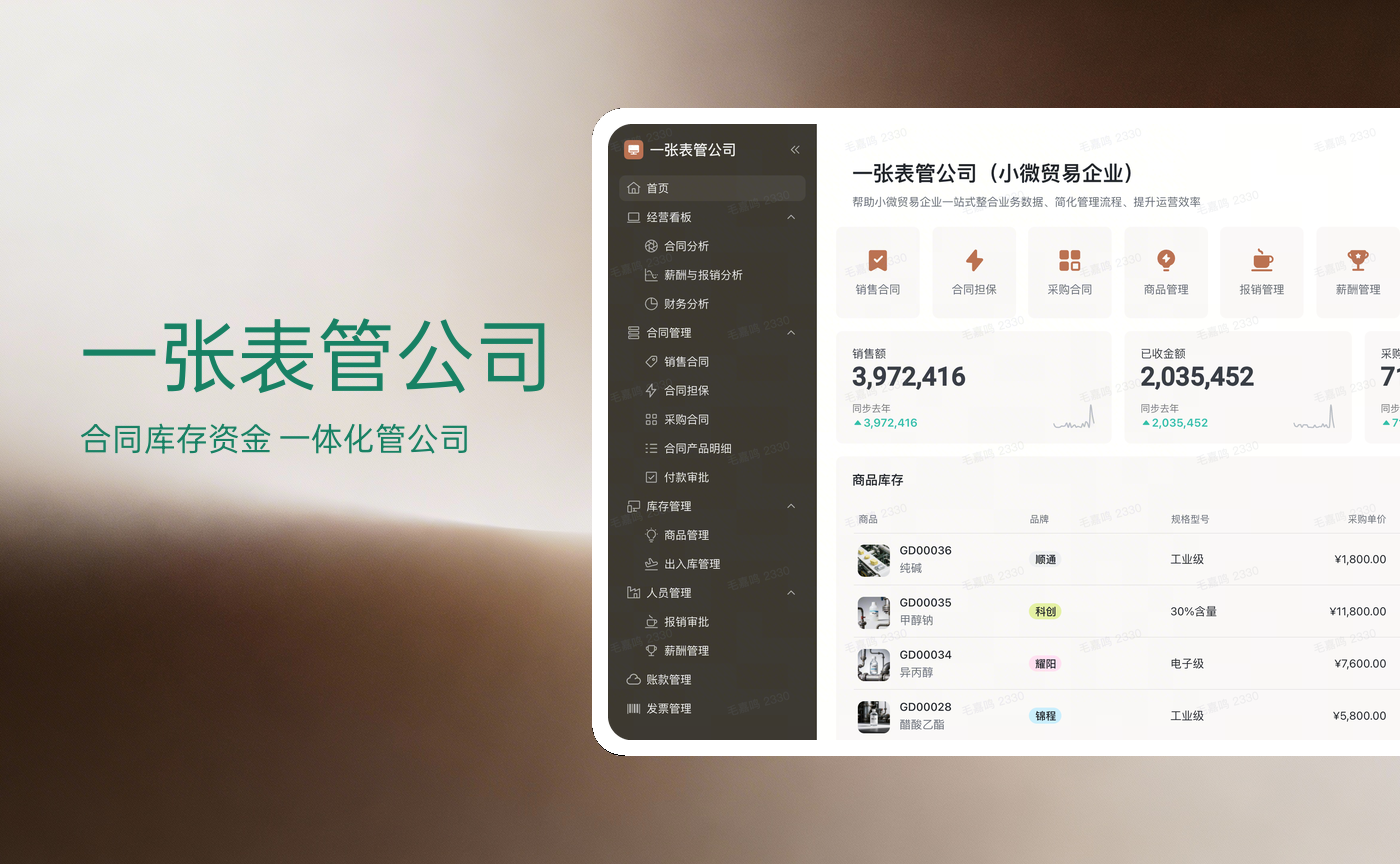
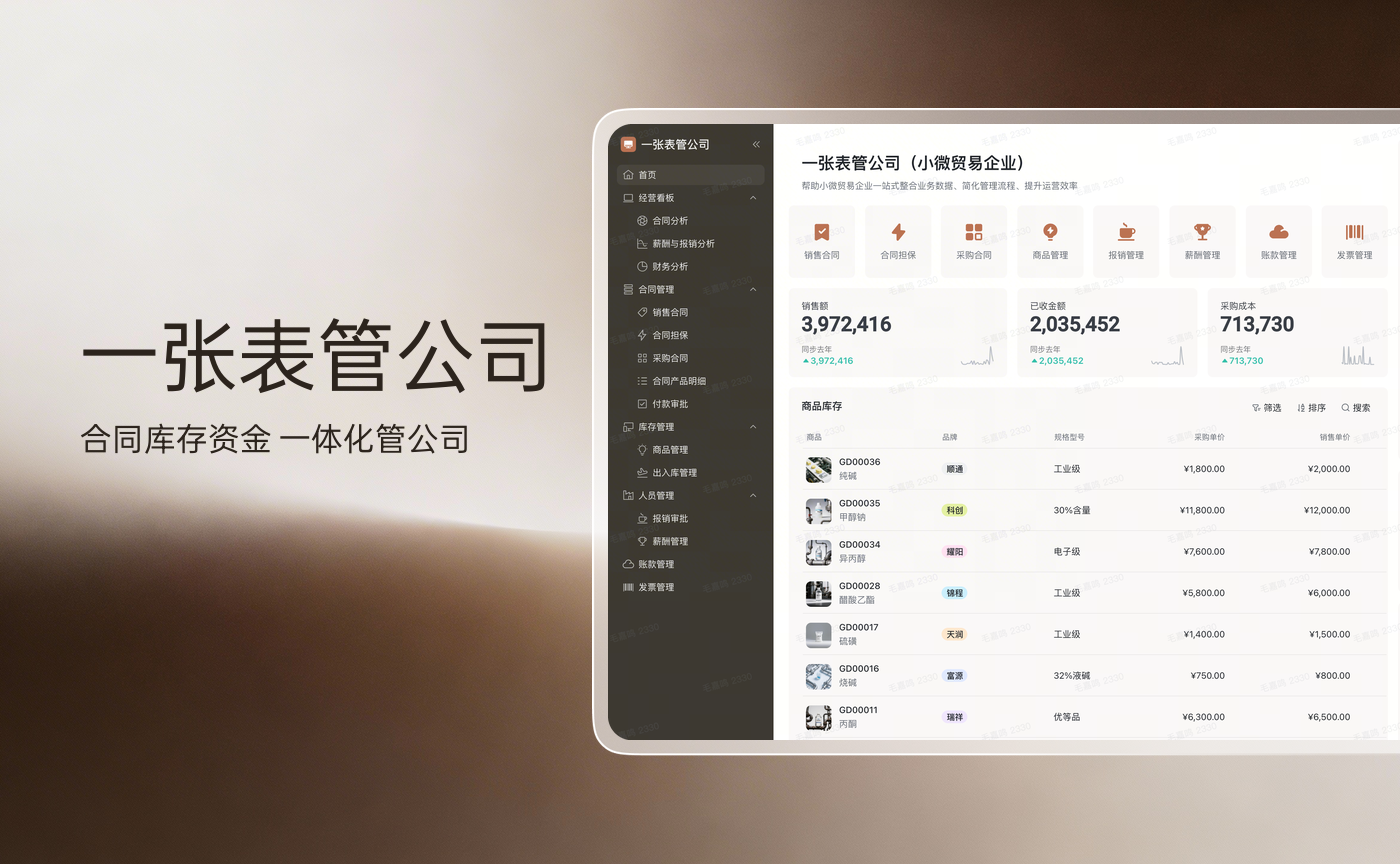
Update

diff --git a/app/main.py b/app/main.py
@@ -639,6 +639,7 @@ class CoverApp(tk.Tk):
         for child in self.form_dynamic.winfo_children():
             child.destroy()
         self.text_vars = {}
+        self.text_color_vars = {}
         self.slot_vars = {}
 
         template = self._get_template(self.template_var.get())
@@ -650,9 +651,13 @@ class CoverApp(tk.Tk):
             for i, t in enumerate(template.texts):
                 key = t.key
                 var = tk.StringVar()
+                color_var = tk.StringVar()
                 self.text_vars[key] = var
+                self.text_color_vars[key] = color_var
                 ttk.Label(text_frame, text=f"{key}  (text.{key})").grid(row=i, column=0, sticky="w", pady=2)
                 ttk.Entry(text_frame, textvariable=var).grid(row=i, column=1, sticky="ew", pady=2)
+                ttk.Label(text_frame, text="color").grid(row=i, column=2, sticky="w", padx=(8, 2), pady=2)
+                ttk.Entry(text_frame, textvariable=color_var, width=10).grid(row=i, column=3, sticky="w", pady=2)
 
         if template.slots:
             slot_frame = ttk.Labelframe(self.form_dynamic, text="Slots", padding=8)
@@ -841,12 +846,14 @@ class CoverApp(tk.Tk):
 
     def _build_render_input(self) -> RenderInput:
         texts = {k: v.get() for k, v in (self.text_vars or {}).items() if v.get().strip()}
+        text_colors = {k: v.get().strip() for k, v in (getattr(self, "text_color_vars", None) or {}).items() if v.get().strip()}
         slot_paths = {k: v.get() for k, v in (self.slot_vars or {}).items() if v.get().strip()}
         return RenderInput(
             background_path=self.background_var.get() or None,
             template_key=self.template_var.get(),
             output_name=self.output_name_var.get() or "cover.png",
             texts=texts,
+            text_colors=text_colors,
             slot_paths=slot_paths,
         )
 
@@ -922,7 +929,9 @@ class CoverApp(tk.Tk):
 
         headers = ["template_key", "output_name", "background_path"]
         # Deterministic order: follow template list order
-        headers += [f"text.{t.key}" for t in template.texts]
+        for t in template.texts:
+            headers.append(f"text.{t.key}")
+            headers.append(f"text.{t.key}.color")
         headers += [f"slot.{s.key}" for s in template.slots]
 
         try:

diff --git a/app/models.py b/app/models.py
@@ -70,6 +70,7 @@ class RenderInput:
     output_name: str
     background_path: Optional[str]
     texts: Dict[str, str] = field(default_factory=dict)  # textKey -> content
+    text_colors: Dict[str, str] = field(default_factory=dict)  # textKey -> "#RRGGBB" override
     slot_paths: Dict[str, str] = field(default_factory=dict)  # slotKey -> image path
 
 
@@ -219,6 +220,7 @@ def render_input_from_row(row: Dict[str, Any]) -> RenderInput:
 
     # 1) key-addressable mappings
     texts: Dict[str, str] = {}
+    text_colors: Dict[str, str] = {}
     slot_paths: Dict[str, str] = {}
     for col, raw in row.items():
         if col is None:
@@ -228,9 +230,17 @@ def render_input_from_row(row: Dict[str, Any]) -> RenderInput:
             continue
         low = col_str.lower()
         if low.startswith("text."):
-            key = col_str.split(".", 1)[1].strip()
-            if key:
-                texts[key] = _as_str(raw)
+            rest = col_str.split(".", 1)[1].strip()
+            # Support optional per-text color override: text.<key>.color
+            # (Keys themselves are expected not to contain '.', per template editor validation.)
+            if rest.lower().endswith(".color"):
+                key = rest.rsplit(".", 1)[0].strip()
+                if key:
+                    text_colors[key] = _as_str(raw)
+            else:
+                key = rest
+                if key:
+                    texts[key] = _as_str(raw)
         elif low.startswith("slot."):
             key = col_str.split(".", 1)[1].strip()
             if key:
@@ -252,6 +262,7 @@ def render_input_from_row(row: Dict[str, Any]) -> RenderInput:
         output_name=output_name,
         background_path=background_path,
         texts=texts,
+        text_colors=text_colors,
         slot_paths=slot_paths,
     )
 

diff --git a/app/render.py b/app/render.py
@@ -1,6 +1,7 @@
 from __future__ import annotations
 
 import math
+from copy import deepcopy
 from pathlib import Path
 from typing import Optional, Tuple, List, Dict, Any
 
@@ -331,7 +332,14 @@ def compose_cover(render_input: RenderInput, template: TemplateDefinition) -> Im
     # texts
     for text in template.texts:
         content = (render_input.texts or {}).get(text.key, "")
-        draw_text_block(base, text, content)
+        override = (getattr(render_input, "text_colors", None) or {}).get(text.key)
+        if isinstance(override, str) and override.strip().startswith("#"):
+            # Avoid mutating template objects in registry: copy then override.
+            tmp = deepcopy(text)
+            tmp.style.color = override.strip()
+            draw_text_block(base, tmp, content)
+        else:
+            draw_text_block(base, text, content)
 
     return base
 
